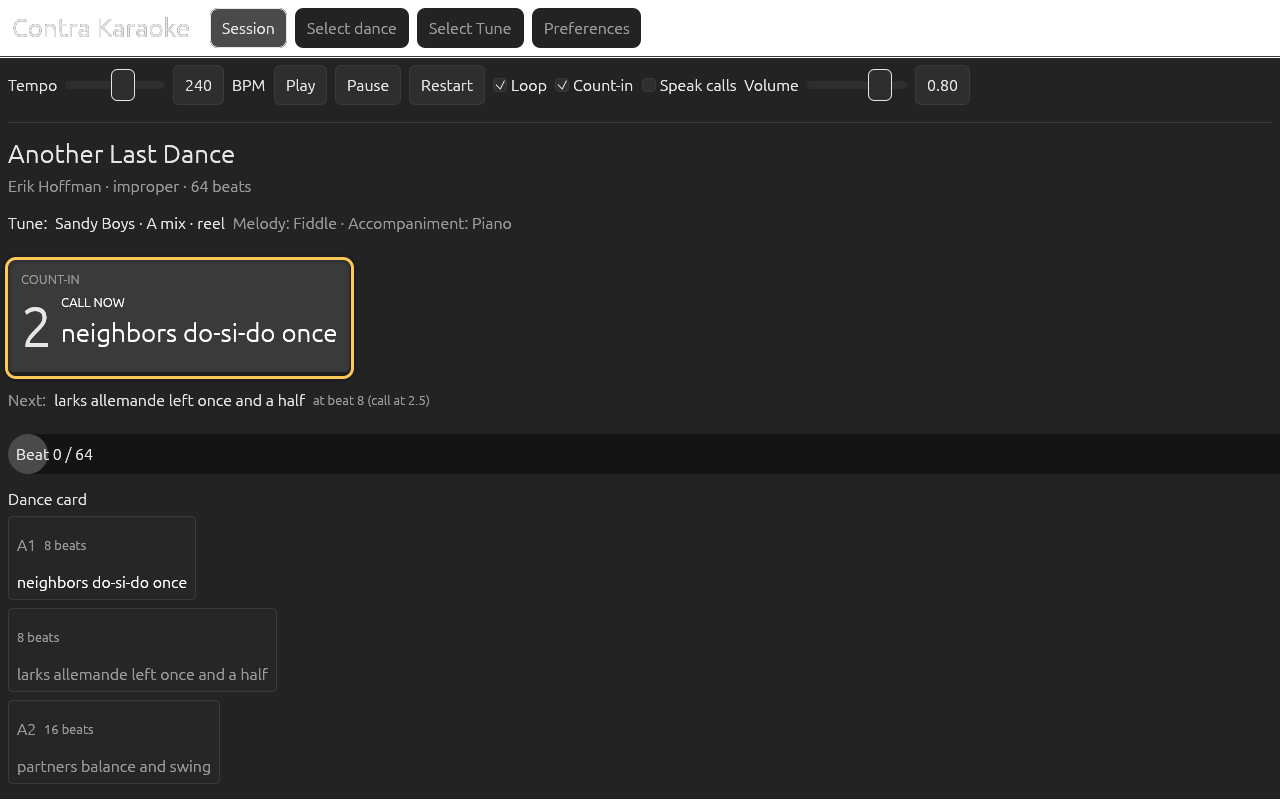
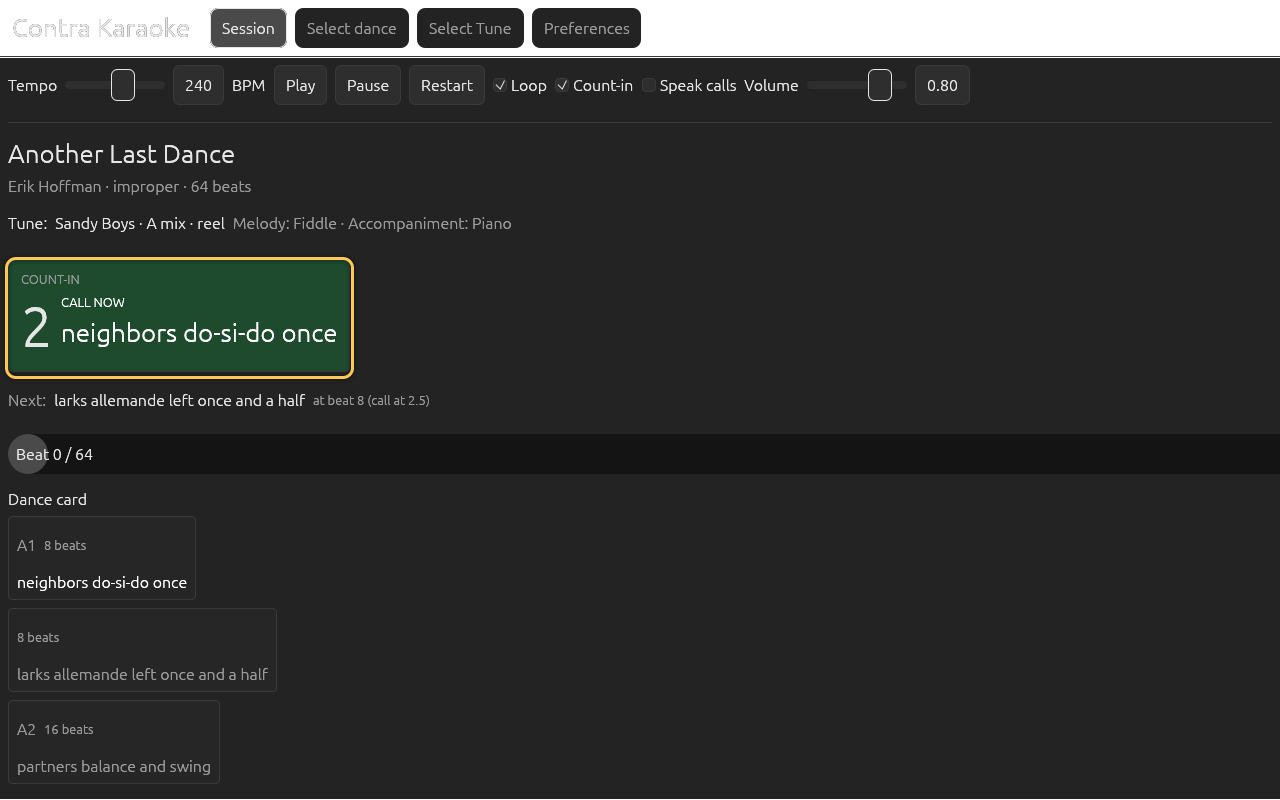
docs(website): document prompt card colour cues

Changed region(s): [[0.0, 0.3125, 0.2812, 0.4688]]

diff --git a/docs/DOCS_WEBSITE_PLAN.md b/docs/DOCS_WEBSITE_PLAN.md
@@ -1,7 +1,7 @@
 # Documentation Website and Automated Screenshot Plan
 
 **Status:** documentation complete; 69 in-app screenshots rendered headlessly
-**Baseline:** local `main` at `67ad921`
+**Baseline:** local `main` at `236b15d`
 **Date:** 2026-11-14
 **Owner:** docs track, running alongside app generation
 **Targets:** Docusaurus 3.10 · Node 24 LTS · `egui`/`eframe` 0.37 · `egui_kittest` 0.37 · Rust 1.95
@@ -56,7 +56,7 @@ that now exists on `main`.
 - Many inputs are not associated with their labels, and several labels repeat
   (`Preview`, `Reset to default`). The headless renderer disables the automatic
   accessibility check; a label pass remains future work.
-- The branch is rebased onto `main` at `67ad921`. The `mcp` crate and
+- The branch is rebased onto `main` at `236b15d`. The `mcp` crate and
   `inspection` feature add a live-app automation path; the docs screenshots use
   the separate headless binary instead.
 
@@ -184,7 +184,7 @@ real app.
 | Data | Bundled defaults + synthetic fixtures, offline | Deterministic, no network, no licensing surprises |
 | Storage | PNGs committed under `website/static/img/screens/` | Reviewable diffs, fast docs builds |
 | Instruction API | `<Step shot="id">` MDX component | Makes “instruction without screenshot” impossible |
-| App baseline | `67ad921`, headless renderer added | Library, `contra-headless`, sheet-music preview, keyboard shortcuts, Kokoro voices, and live MCP inspection exist |
+| App baseline | `236b15d`, headless renderer added | Library, `contra-headless`, sheet-music preview, keyboard shortcuts, Kokoro voices, and live MCP inspection exist |
 | Manual images | Windows/Android OS dialogs only | Automating OS UI is disproportionate for three images |
 | Analytics | None | Matches app privacy rules |
 
@@ -661,7 +661,7 @@ prefs are fixed.
 {
   "schemaVersion": 1,
   "appVersion": "0.1.0",
-  "appCommit": "67ad921",
+  "appCommit": "236b15d",
   "egui": "0.37.0",
   "renderer": "wgpu-vulkan-llvmpipe",
   "shots": {

diff --git a/website/docs/guides/session-controls.md b/website/docs/guides/session-controls.md
@@ -56,8 +56,8 @@ states:
 | --- | --- | --- |
 | Ready | `READY`, `Press Play to begin` | Press **Play** to build the music. |
 | Count-in | `COUNT-IN`, a large number, and either **CALL NOW** or `Listen for the first chord` | Wait for the loop, or say the first call if it is already due. |
-| Calling | `CALL NOW` | Say the words now. The line below counts down to the execute beat. |
-| Executing | `UPCOMING MOVE`, the next call, and `call in N beats` | The figure is happening; prepare to say the next call. The dance card still highlights the figure in progress. |
+| Calling | `CALL NOW`, green card | Say the words now. The line below counts down to the execute beat. |
+| Executing | `UPCOMING MOVE`, red card, the next call, and `call in N beats` | The figure is happening; prepare to say the next call. The dance card still highlights the figure in progress. |
 | Finished | `Dance complete` | With looping off, press **Restart** to run again. |
 
 While a figure executes, the prompt switches to the move you must say next. The

diff --git a/website/docs/guides/themes-and-accessibility.md b/website/docs/guides/themes-and-accessibility.md
@@ -4,9 +4,11 @@ description: Switch between the dark and light grey themes, and understand the c
 sidebar_position: 10
 ---
 
-Contra Karaoke uses a neutral grey interface with no accent colour. The active
-call is distinguished by contrast, weight, and border rather than a highlight
-colour.
+Contra Karaoke uses a neutral grey interface with limited colour. The large
+prompt card adds a glanceable cue: green while the caller must speak the shown
+call now, red while the card looks ahead to the next move, and grey for ready,
+count-in, dancing, and completion. The label text still says **CALL NOW** or
+**UPCOMING MOVE**, so the fill is never the only signal.
 
 ## Choose a theme
 
